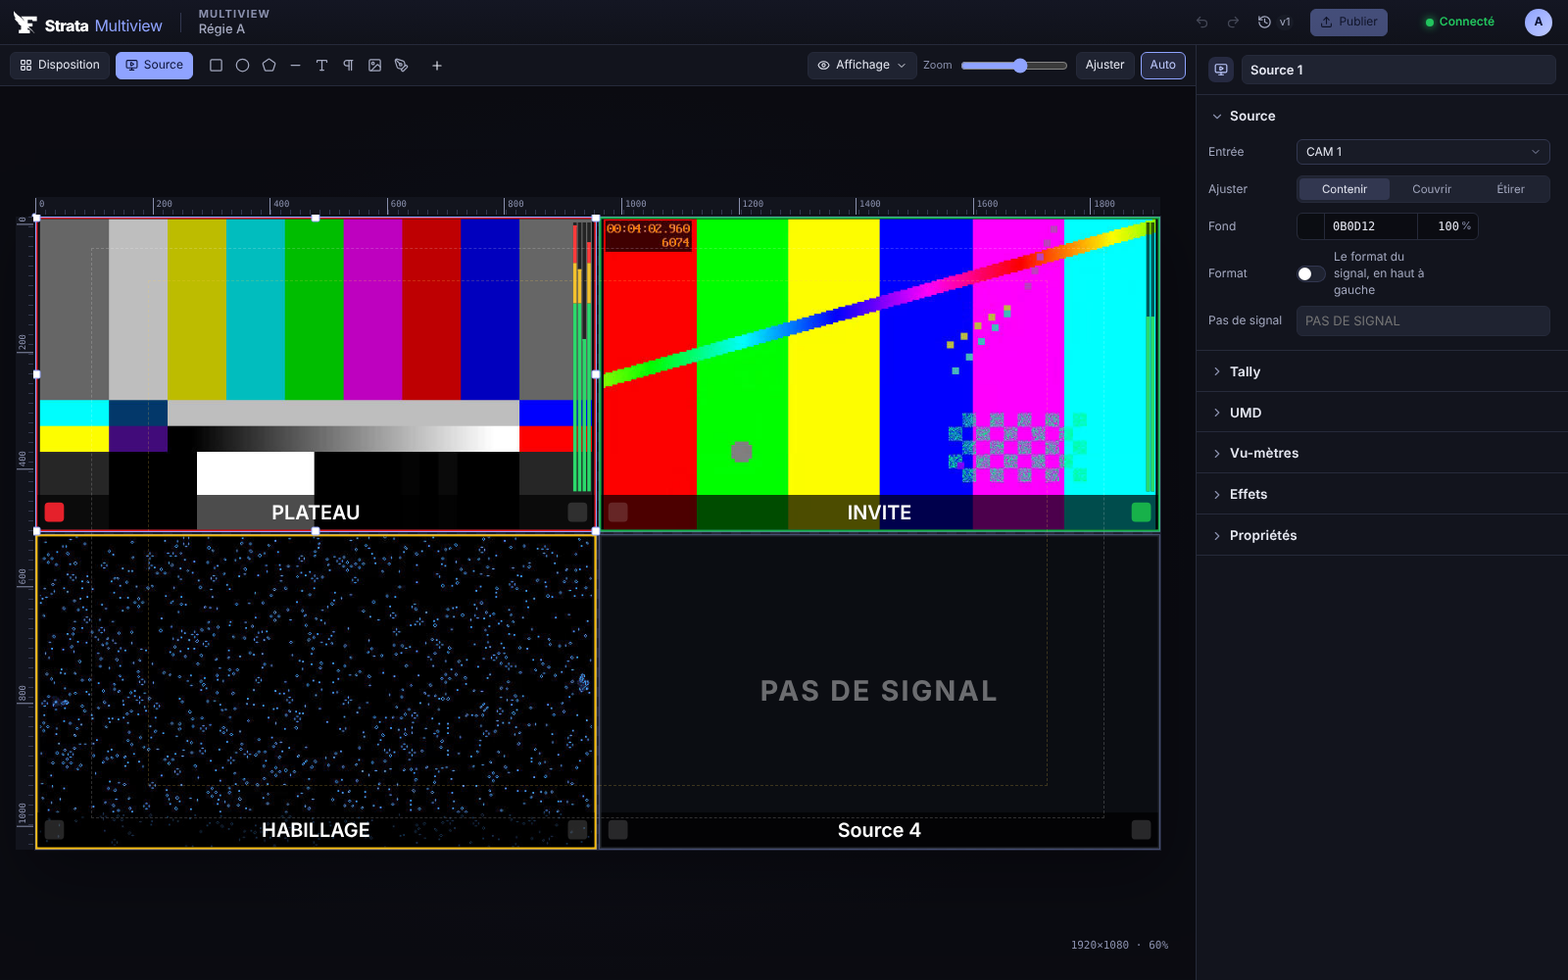
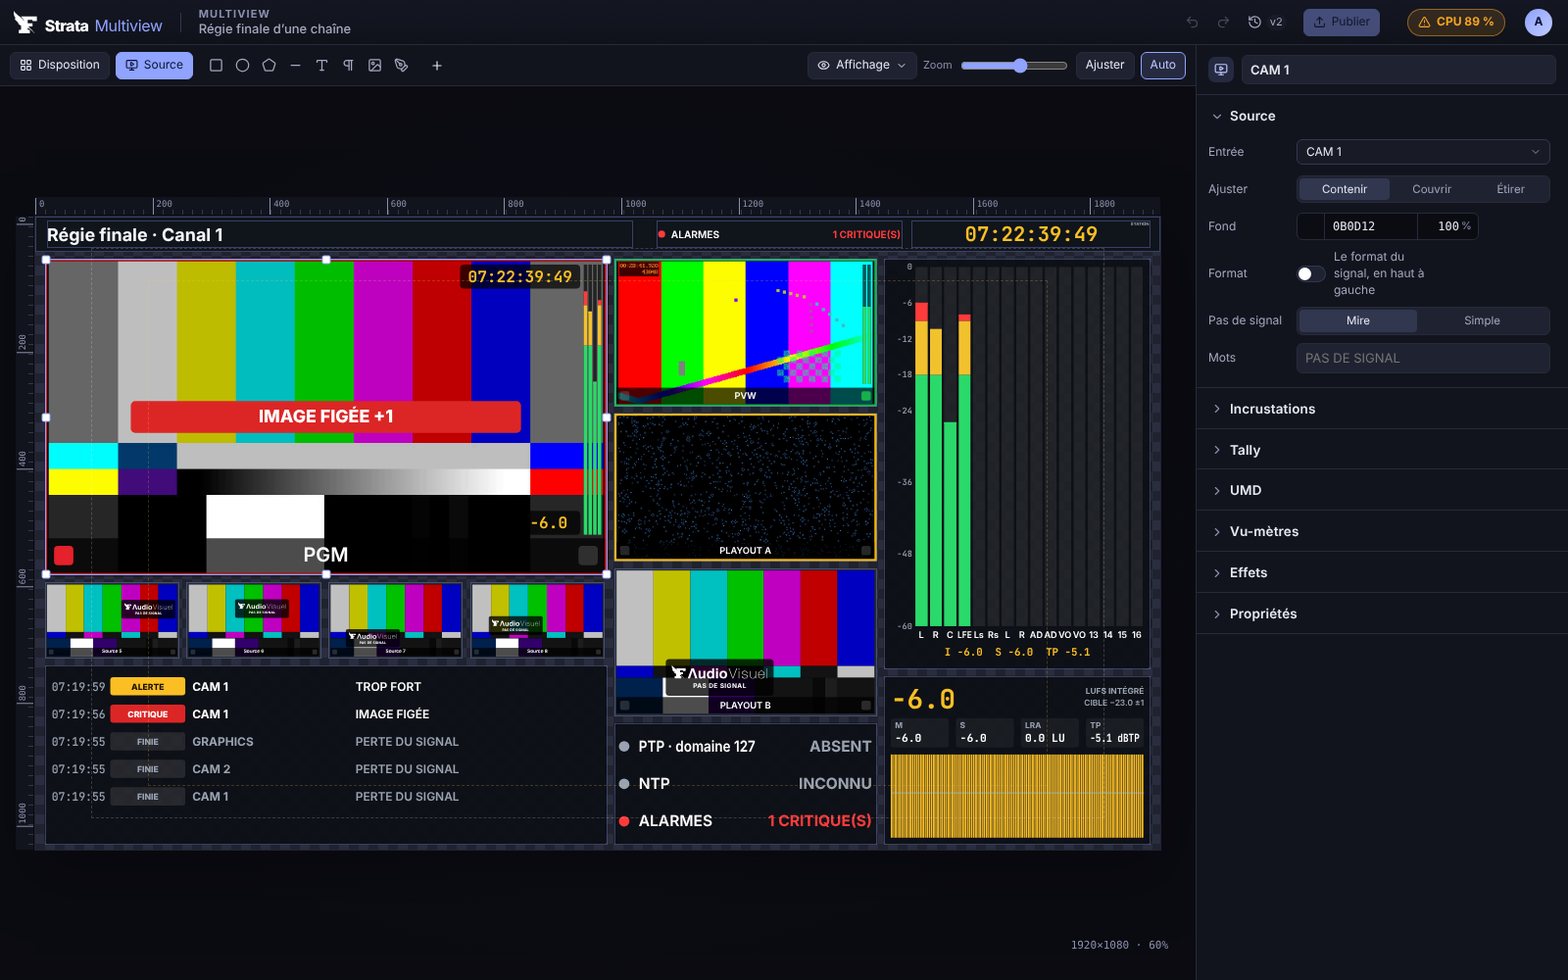
Docs: models, broadcast widgets, loudness, alarms; new screenshots
README: the ten models in New multiview, the broadcast widgets (audio
meters, loudness, timecode, status, alarm log), the source tile's
signal-loss bars and overlays, loudness R128, timecode and the alarm
journal. ARCHITECTURE: the display-list widgets and the signal hub.
Screenshots of the final control model in the editor and on air.

Claude-Session: https://claude.ai/code/session_01YNigYBVkBUfYF1kZKq6KJ5

diff --git a/README.md b/README.md
@@ -1,10 +1,10 @@
 # Strata Multiview
 
-**Multiviewer broadcast logiciel.** Strata Multiview compose des mosaïques de sources vidéo (multiviews) dans le navigateur : les images des entrées en direct avec leur **tally**, leur **UMD** et leurs **vu-mètres**, des horloges, des logos et des textes. Il envoie le résultat vers les sorties du studio : HTML5, NDI, flux SRT / RTMP / HLS, SDI (DeckLink) et SMPTE ST 2110.
+**Multiviewer broadcast logiciel pour la régie de diffusion.** Strata Multiview compose des mosaïques de sources vidéo (multiviews) dans le navigateur : les images des entrées en direct avec leur **tally**, leur **UMD**, leurs **vu-mètres**, leur **loudness EBU R128** et leur **timecode**, les **alarmes** (perte, noir, image figée, silence, niveau), l'état **PTP / NTP**, le journal des défauts, des horloges et des logos. Il envoie le résultat vers les sorties du studio : HTML5, NDI, flux SRT / RTMP / HLS, SDI (DeckLink) et SMPTE ST 2110.
 
 Strata Multiview reprend le design, le Designer et le moteur de rendu de Strata Graphics. Les deux applications sont indépendantes et tournent côte à côte sur la même machine. Un seul exécutable par plateforme, un moteur de rendu en Rust, une interface web.
 
-![Un multiview à l'antenne : tally, UMD et vu-mètres](docs/screenshots/output.png)
+![Le modèle « Régie finale » à l'antenne : tally, UMD, timecode, loudness, alarmes, 16 canaux audio et mire sur les entrées absentes](docs/screenshots/output.png)
 
 ## Sommaire
 
@@ -14,7 +14,7 @@ Strata Multiview reprend le design, le Designer et le moteur de rendu de Strata 
 4. [Designer](#4-designer)
 5. [La tuile Source](#5-la-tuile-source)
 6. [Tally et UMD](#6-tally-et-umd)
-7. [Audio et vu-mètres](#7-audio-et-vu-mètres)
+7. [Audio, loudness et alarmes](#7-audio-loudness-et-alarmes)
 8. [Diffusion](#8-diffusion)
 9. [Système](#9-système)
 10. [API](#10-api)
@@ -28,7 +28,7 @@ Strata Multiview reprend le design, le Designer et le moteur de rendu de Strata 
 ### 1.1 La chaîne
 
 ```
- Entrées en direct ──► image, audio (niveaux par canal)
+ Entrées en direct ──► image, audio (niveaux, loudness R128), timecode, alarmes
  (SRT, UDP, RTMP, HLS, RTSP, NDI, SDI)        │
                                                ▼
  Régie (TSL 3.1 / 5.0, ATEM, GPI, API) ──► tally et UMD de chaque entrée
@@ -37,9 +37,9 @@ Strata Multiview reprend le design, le Designer et le moteur de rendu de Strata 
  Designer ──► multiviews publiés ──► chaîne ──► sorties (HTML5 · NDI · Stream · SDI · ST 2110)
 ```
 
-- Les **entrées en direct** sont décodées en continu ; leur audio est mesuré canal par canal.
+- Les **entrées en direct** sont décodées en continu ; leur audio est mesuré canal par canal et en loudness EBU R128 ; leur image est surveillée (noir, image figée) ; une entrée qui tombe lève une alarme.
 - Le **tally** et les **UMD** viennent des mélangeurs et des contrôleurs de tally, aiguillés vers les entrées.
-- Le **Designer** compose les multiviews : une **disposition** (2 × 2, 3 × 3, 1 + 5…) de **tuiles Source**, et autant d'horloges, de logos et de textes que voulu.
+- Le **Designer** compose les multiviews : un des **dix modèles** de régie de diffusion ou une **disposition** (2 × 2, 3 × 3, 1 + 5…) de **tuiles Source**, puis les widgets de supervision (vu-mètres 16 canaux, loudness, timecode, état, journal des alarmes), des horloges, des logos et des textes.
 - Une **chaîne** montre un multiview publié et l'envoie vers ses destinations.
 
 ### 1.2 Les pages
@@ -62,7 +62,7 @@ Un multiview s'ouvre directement dans le **Designer**, dans son propre onglet.
 | **Operator** | choisir le multiview à l'antenne d'une chaîne ; régler le tally par l'API |
 | **Viewer** | consulter les multiviews et les sorties |
 
-L'interface est en **français ou en anglais**, au choix de chaque utilisateur. Les textes que le multiview écrit lui-même (« PAS DE SIGNAL ») suivent la langue du multiview.
+L'interface est en **français ou en anglais**, au choix de chaque utilisateur. Les textes que le multiview écrit lui-même (« PAS DE SIGNAL », « IMAGE FIGÉE ») suivent la langue du multiview.
 
 ---
 
@@ -96,8 +96,8 @@ Guide complet, dossiers de données, pare-feu, proxy : [`docs/INSTALL.md`](docs/
 
 1. Ouvrez `http://<serveur>:8090`. Sur le serveur lui-même, la page propose de **créer le compte administrateur** ; à distance, utilisez `strata-mv-server user add admin`.
 2. **Diffusion › Entrées vidéo** : déclarez les sources (caméras en SDI, flux SRT d'un encodeur, sources NDI du réseau…).
-3. **Multiviews › Nouveau multiview** : nommez-le, choisissez sa résolution et une **disposition** (2 × 2, 1 + 5, 4 × 4…). Les tuiles sont créées, reçoivent les entrées dans l'ordre, et le multiview s'ouvre dans le **Designer**.
-4. Ajustez les tuiles (entrée, UMD, vu-mètres), ajoutez une horloge, un logo, un titre, puis **Publiez**.
+3. **Multiviews › Nouveau multiview** : nommez-le, choisissez sa résolution puis un **modèle** (régie finale, 16 chaînes, retours antenne…) ou une simple **disposition** (2 × 2, 1 + 5, 4 × 4…). Les tuiles et les widgets sont créés, les tuiles reçoivent les entrées dans l'ordre, et le multiview s'ouvre dans le **Designer**.
+4. Ajustez les tuiles (entrée, UMD, vu-mètres, timecode, loudness), ajoutez des widgets, un logo, un titre, puis **Publiez**.
 5. **Diffusion › Flux vidéo** : choisissez le **multiview à l'antenne** de la chaîne : il passe aussitôt à l'antenne. Ajoutez les destinations (HTML5, NDI, SDI, ST 2110, flux).
 6. **Diffusion › Tally et UMD** : ajoutez la régie (TSL, ATEM ou GPI) et reliez ses afficheurs aux entrées.
 
@@ -109,19 +109,42 @@ La sortie HTML5 de la chaîne principale est sur `http://<serveur>:8090/output/m
 
 ## 4. Designer
 
-![Designer : un multiview 2 × 2, une tuile sélectionnée](docs/screenshots/designer.png)
+![Designer : le modèle « Régie finale », la tuile PGM sélectionnée](docs/screenshots/designer.png)
 
 ### 4.1 L'espace de travail
 
 - **En haut** : le nom du multiview, annuler / rétablir, l'historique des versions et **Publier**.
-- **Au centre** : la **scène** (règles, repères, zones de sécurité, fond) avec la barre d'outils : **Disposition**, **Source** (une tuile), les formes et les textes, **+** (bandeau, horloge, temps, QR code, vidéo, iframe), **Affichage**, zoom. Les tuiles y montrent les entrées en direct, leur tally et leurs vu-mètres. Un clic sélectionne, un glisser déplace ; clic droit : copier, couper, coller, dupliquer, ordre, supprimer.
+- **Au centre** : la **scène** (règles, repères, zones de sécurité, fond) avec la barre d'outils : **Disposition**, **Source** (une tuile), les formes et les textes, **+** (vu-mètres, loudness, timecode, état, journal des alarmes, bandeau, horloge, temps), **Affichage**, zoom. Les tuiles y montrent les entrées en direct, leur tally et leurs vu-mètres. Un clic sélectionne, un glisser déplace ; clic droit : copier, couper, coller, dupliquer, ordre, supprimer.
 - **À droite** : l'inspecteur de l'élément sélectionné ; sans sélection, le multiview lui-même (résolution, ses tuiles, ses réglages).
 
-Un multiview s'édite directement : ni modèles, ni calques, ni timeline, ni animation. Ce qui bouge vient des sources (images, tally, vu-mètres) et des widgets eux-mêmes (horloges, bandeau défilant).
+Un multiview s'édite directement : une seule page, ni calques, ni timeline, ni animation. Ce qui bouge vient des sources (images, tally, vu-mètres, loudness, alarmes) et des widgets eux-mêmes (timecode, horloges, bandeau défilant).
 
-### 4.2 Dispositions
+### 4.2 Modèles
 
-![Nouveau multiview : la disposition](docs/screenshots/new-multiview.png)
+![Nouveau multiview : les modèles](docs/screenshots/new-multiview.png)
+
+**Nouveau multiview** propose dix modèles dessinés pour la **régie de diffusion** (pas de production). Chacun est un point de départ : tout y reste modifiable dans le Designer.
+
+| Modèle | Contenu |
+| --- | --- |
+| **Régie finale d'une chaîne** | PGM (timecode, loudness, alarmes), PVW, playout A et B, quatre retours, 16 canaux audio, loudness, état, journal |
+| **Seize chaînes** | 4 × 4 chaînes avec leur loudness et leurs alarmes, l'état de l'installation et le journal |
+| **Main et backup** | quatre chaînes, leur main et leur backup côte à côte, avec leur audio |
+| **Retours antenne** | le programme face à ses retours (TNT, satellite, IPTV, OTT), loudness et journal |
+| **Audio, 16 canaux** | les 16 canaux et le loudness d'une entrée, quatre autres entrées, avec ou sans image |
+| **IP, PTP et synchro** | neuf sources ST 2110, PTP et NTP, le timecode station et le journal |
+| **Contributions** | six arrivées avec leur timecode et leur loudness, le journal |
+| **Nuit, 25 sources** | 5 × 5 sources où seules les alarmes ressortent, le journal à côté |
+| **Habillage et sous-titres** | le programme avant et après habillage, son loudness, son audio et le journal |
+| **UHD HDR et SDR** | le programme UHD et sa conversion SDR, le loudness, 16 canaux, l'état de l'installation |
+
+Les modèles sont dessinés en 1920 × 1080 et mis à l'échelle de la résolution choisie ; leurs tuiles prennent les entrées dans l'ordre.
+
+![Le modèle « Régie finale » rendu par le moteur Rust](docs/screenshots/model-final.png)
+
+![Le modèle « Seize chaînes » : les entrées absentes montrent la mire](docs/screenshots/model-sixteen.png)
+
+### 4.3 Dispositions
 
 Une **disposition** place les tuiles Source sur une grille, avec un **espace** entre elles et une **marge** autour :
 
@@ -132,17 +155,19 @@ Une **disposition** place les tuiles Source sur une grille, avec un **espace** e
 | **2 + 8** | deux grandes en haut, huit petites en dessous |
 | **1 + 12** | une grande au centre, douze autour |
 
-Elle se choisit à la création d'un multiview, ou s'applique ensuite par le bouton **Disposition** : les tuiles existantes sont replacées dans l'ordre de lecture, les manquantes sont ajoutées avec les entrées qu'aucune tuile ne montre encore. Chaque tuile reste ensuite libre (position, taille, réglages).
+Elle se choisit à la création d'un multiview (« Une disposition seule »), ou s'applique ensuite par le bouton **Disposition** : les tuiles existantes sont replacées dans l'ordre de lecture, les manquantes sont ajoutées avec les entrées qu'aucune tuile ne montre encore. Chaque tuile reste ensuite libre (position, taille, réglages).
 
-### 4.3 Les autres éléments
+### 4.4 Les widgets
 
-Tous les widgets de Strata Graphics utiles à un multiview restent disponibles, rendus à l'identique en HTML5 et par le moteur Rust :
+Tous les widgets sont rendus à l'identique en HTML5 et par le moteur Rust (la géométrie est calculée dans `strata-mv-core`, chaque moteur ne fait que dessiner) :
 
 | Pour | Widgets |
 | --- | --- |
-| **Horloges** | Horloge (heure, date, n'importe quel fuseau, cadran analogique), Temps (chronomètre, compte à rebours) |
-| **Logos** | Image (PNG, JPEG, SVG, GIF, vidéo en boucle) |
-| **Labels** | Texte (styles, ombre, ajustement), bandeau défilant (Ticker), QR code, page web |
+| **Audio** | **Vu-mètres** : jusqu'à 16 canaux d'une entrée, avec ou sans image ; noms des canaux (« L, R, C, LFE… »), échelle en dBFS, valeurs, crêtes, ligne de loudness |
+| **Loudness** | **Loudness** EBU R128 d'une entrée : intégré en grand, momentary, short-term, LRA, true peak ; courbe short-term des deux dernières minutes ; couleurs selon la cible (−23 LUFS ± 1, true peak −1 dBTP) |
+| **Temps** | **Timecode** : celui de la station (heure locale à la cadence de la chaîne) ou d'une entrée (NDI) ; Horloge (heure, date, fuseau, cadran analogique) ; Temps (chronomètre, compte à rebours) |
+| **Supervision** | **État** : PTP (verrouillage, domaine, écart), NTP, alarmes en cours ; **Journal des alarmes** : les défauts des entrées, les plus récents d'abord, avec leur début et leur fin |
+| **Labels et logos** | Texte, bandeau défilant (Ticker), Image (PNG, JPEG, SVG, GIF, vidéo en boucle) |
 | **Habillage** | rectangle, ellipse, polygone, plume, groupes, masques, dégradés |
 
 La **publication** envoie les multiviews vers les sorties ; tant qu'un multiview n'est pas publié, les chaînes gardent la version précédente.
@@ -155,11 +180,15 @@ Une tuile **Source** montre une entrée en direct et tout ce qu'elle porte :
 
 | Élément | Réglages |
 | --- | --- |
-| **Image** | l'entrée ; ajustement *Contenir* (bandes noires), *Couvrir* ou *Étirer* ; couleur de fond ; « PAS DE SIGNAL » (texte modifiable) quand l'image manque |
+| **Image** | l'entrée ; ajustement *Contenir* (bandes noires), *Couvrir* ou *Étirer* ; couleur de fond |
+| **Perte de signal** | *Mire* : barres SMPTE avec le logo **F AudioVisuel** et « PAS DE SIGNAL » qui rebondissent dessus (chaque tuile ailleurs) ; ou *Simple* : fond uni et texte modifiable |
 | **Cadre de tally** | épaisseur ; couleurs *À l'antenne* (rouge), *Préparation* (vert), *Aux* (jaune), *Sans tally* ; le cadre peut ne pas suivre le tally |
 | **UMD** | en bas, en haut ou sans ; sur l'image ou à côté ; hauteur ; texte (vide : celui de la régie, sinon le nom de l'entrée ; `{{clé}}` remplacées) ; police, alignement, couleurs ; **lampes** de tally aux deux bouts (antenne à gauche, préparation à droite) |
 | **Vu-mètres** | à droite, à gauche ou sans ; un par canal reçu (ou au plus *n*) ; largeur, espace, marge ; échelle en dBFS, jaune et rouge à partir de seuils ; maintien des crêtes |
 | **Format** | le format du signal (« 1080i50 ») en haut à gauche |
+| **Timecode** | sans, celui de l'entrée ou celui de la station, en haut à droite |
+| **Loudness** | le loudness short-term de l'entrée en bas à droite, coloré selon la cible |
+| **Alarmes** | cadre rouge clignotant (critique) ou ambre (alerte) et bandeau du défaut (« IMAGE FIGÉE », « PERTE DU SIGNAL »…), avec le nombre d'autres défauts |
 
 Les réglages et la géométrie sont communs aux deux moteurs (`strata-mv-core/src/wid/source.rs`, `web/src/widgets/source.tsx`) : la sortie HTML5 et les sorties du moteur Rust montrent la même image.
 
@@ -211,17 +240,40 @@ La clé d'API (Système › API) agit avec les droits de son utilisateur : un co
 
 ---
 
-## 7. Audio et vu-mètres
+## 7. Audio, loudness et alarmes
+
+### 7.1 Niveaux
 
 L'audio de chaque entrée est mesuré à la réception, canal par canal : **crête** et **puissance moyenne** toutes les 40 ms environ. Les vu-mètres montent aussitôt, redescendent de 24 dB par seconde et gardent leur crête deux secondes.
 
 | Entrée | Audio mesuré |
 | --- | --- |
-| **Flux** (SRT, UDP, RTMP, HLS, RTSP, URL) | la première piste audio, tous ses canaux (filtre `astats` d'ffmpeg) ; une source sans audio est reconnue et décodée sans mesure |
+| **Flux** (SRT, UDP, RTMP, HLS, RTSP, URL) | la première piste audio, tous ses canaux (filtres `ebur128` et `astats` d'ffmpeg) ; une source sans audio est reconnue et décodée sans mesure |
 | **NDI** | l'audio de la source, tous ses canaux |
 | **SDI** (DeckLink) | l'audio embarqué : 16, 8 ou 2 canaux selon la carte, 48 kHz |
 
 Les niveaux arrivent au moteur et aux navigateurs (une douzaine de fois par seconde) avec le tally. Une entrée sans audio depuis trois secondes n'a plus de vu-mètres.
+
+### 7.2 Loudness et timecode
+
+Le **loudness EBU R128** de chaque entrée est mesuré en continu : momentary (400 ms), short-term (3 s), intégré, LRA et true peak. Les flux passent par le filtre `ebur128` d'ffmpeg, NDI et SDI par la même mesure en Rust. La cible est **−23 LUFS ± 1** et **−1 dBTP**. L'historique short-term (une valeur par seconde, deux minutes) nourrit la courbe du widget Loudness.
+
+Le **timecode** d'une entrée est celui de NDI ; le **timecode station** est l'heure locale du serveur à la cadence de la chaîne.
+
+### 7.3 Alarmes et journal
+
+Chaque entrée est surveillée en permanence :
+
+| Alarme | Gravité | Quand |
+| --- | --- | --- |
+| **Perte du signal** | critique | plus d'image reçue |
+| **Noir** | critique | image noire depuis 3 s |
+| **Image figée** | critique | image identique depuis 4 s |
+| **Silence** | alerte | audio sous −60 dBFS depuis 5 s |
+| **Trop fort** | alerte | short-term au-dessus de la cible de plus de 3 LU depuis 10 s |
+| **Crête** | alerte | true peak au-dessus de −1 dBTP (tenue 3 s) |
+
+Les alarmes s'affichent sur les tuiles (cadre et bandeau), dans le widget **État** et dans le **journal** (200 lignes, début et fin de chaque défaut). L'état **PTP** (ptp4l) et **NTP** de la machine accompagne les signaux.
 
 ---
 
@@ -285,7 +337,7 @@ La page **Système › API** documente toute l'API (OpenAPI 3.1, aussi sur `/api
 | `GET` `PUT` `DELETE` | `/api/tally` · `/api/tally/config` · `/api/tally/inputs/{entrée}` · `/api/tally/gpi/{source}/{contact}/{on\|off}` | tally et UMD |
 | `GET` | `/api/inputs` · `/api/inputs/{id}/live.mjpeg` | entrées et leurs images |
 | `GET` | `/api/outputs/status` · `/api/system/metrics` · `/api/health` | supervision |
-| `WS` | `/ws` · `/ws?channel={id}` | évènements temps réel (multiviews, chaînes, signaux des entrées) |
+| `WS` | `/ws` · `/ws?channel={id}` | évènements temps réel (multiviews, chaînes ; signaux des entrées : niveaux, loudness, timecode, alarmes ; état PTP / NTP et journal) |
 
 ```bash
 curl -X PUT http://localhost:8090/api/channels/main/multiview -H "Authorization: Bearer smv_…" \

diff --git a/docs/ARCHITECTURE.md b/docs/ARCHITECTURE.md
@@ -35,8 +35,9 @@
 
 ### `strata-mv-core` : le contrat
 - **Modèle** (`model.rs`) : un multiview est un `Project` dont l'unique `Template` est la page, faite de `Layer` (group, rect, ellipse, text, image et les widgets), avec ses `props` statiques et ses `tracks` de keyframes. Le modèle est sérialisé en JSON camelCase ; il a un miroir TypeScript dans `web/src/engine/types.ts`.
-- **Tuile Source** (`wid/source.rs`) : réglages (entrée, ajustement, cadre de tally, UMD, vu-mètres, format) et **géométrie** (`layout`) : où vont l'image, la barre d'UMD, ses lampes, son texte et chaque barre de vu-mètre. Les deux moteurs la suivent ; miroir TypeScript : `web/src/widgets/source.tsx`.
-- **Signaux** (`signal.rs`) : ce qu'une entrée porte en plus de son image, tel que la tuile le dessine : `Tally` (antenne, préparation, aux, texte d'UMD), `Level` (crête, puissance, maintien en dBFS par canal), `SourceView`.
+- **Tuile Source** (`wid/source.rs`) : réglages (entrée, ajustement, cadre de tally, UMD, vu-mètres, format, timecode, loudness, alarmes) et **géométrie** (`layout`, `overlay`) : où vont l'image, la barre d'UMD, ses lampes, son texte, chaque barre de vu-mètre et les incrustations. La perte de signal : les barres SMPTE (`BARS`, EG 1-1990) et la carte F AudioVisuel (`no_signal_card`), dont la position est une fonction de l'heure du serveur et de la place de la tuile. Miroir TypeScript : `web/src/widgets/source.tsx`.
+- **Widgets broadcast** (`wid/broadcast.rs`) : vu-mètres, loudness, timecode, état, journal des alarmes. Chacun produit une liste d'éléments (`Item::Rect`, `Item::Text`) que les deux moteurs dessinent tels quels ; miroir TypeScript : `web/src/widgets/broadcast.tsx`.
+- **Signaux** (`signal.rs`) : ce qu'une entrée porte en plus de son image : `Tally` (antenne, préparation, aux, texte d'UMD), `Level` (crête, puissance, maintien en dBFS par canal), `Loudness` (EBU R128 : momentary, short-term, intégré, LRA, true peak) et son historique, le timecode, les `Alarm` en cours (`AlarmKind`, `Severity`), réunis dans `SourceView` ; pour la machine, `SystemView` (PTP, NTP, journal des alarmes).
 - **Playout** (`playout.rs`) : un multiview est un modèle à l'antenne sur la couche de sa zone. Le Designer ne crée ni images clés ni animation ; le moteur (`anim.rs`) résout simplement les propriétés de chaque calque.
 - **Widgets** (`wid/`) : chaque widget est une fonction pure de ses réglages, de l'heure du serveur et du temps à l'antenne : les rendus Rust et HTML5 sont identiques.
 
@@ -59,8 +60,8 @@ Rasteriseur CPU (tiny-skia) : headless, déterministe. Le texte est converti en 
 Le serveur repose sur axum et tokio.
 
 - **Chaînes** : chaque chaîne a sa tâche d'horloge, son `ChannelState` et son thread de rendu. Charger un multiview (`PUT /api/channels/{id}/project`) met sa page publiée à l'antenne (`show_multiview`) ; une publication met à l'antenne des chaînes qui attendaient.
-- **Entrées** (`inputs.rs`) : un fil par entrée. Les flux passent par ffmpeg : l'image en RGBA sur sa sortie standard, l'audio de la première piste mesuré par `astats` dont les valeurs sont lues dans son journal (`MeterLog`) ; une source sans audio est relancée sans mesure. NDI et SDI mesurent leur audio eux-mêmes.
-- **Signaux** (`signals.rs`) : tally et niveaux par entrée ; les vu-mètres montent aussitôt, descendent de 24 dB/s, maintiennent la crête 2 s. Le moteur les lit par `Inputs::source` ; les navigateurs les reçoivent en évènements `signals` (toutes les 80 ms au plus, quand ils changent).
+- **Entrées** (`inputs.rs`) : un fil par entrée. Les flux passent par ffmpeg : l'image en RGBA sur sa sortie standard, l'audio de la première piste mesuré par `ebur128` puis `astats`, dont les valeurs sont lues dans son journal (`MeterLog`) ; une source sans audio est relancée sans mesure. NDI et SDI mesurent leur audio eux-mêmes (le loudness par la crate `ebur128`) ; NDI donne aussi son timecode.
+- **Signaux** (`signals.rs`) : tally, niveaux, loudness et timecode par entrée ; les vu-mètres montent aussitôt, descendent de 24 dB/s, maintiennent la crête 2 s. Chaque image reçue laisse une empreinte de luminance 8 × 8 qui détecte le noir et l'image figée ; `evaluate` lève et clôt les alarmes (perte, noir, figée, silence, trop fort, crête) et tient le journal (200 lignes). PTP et NTP viennent de la supervision de la synchro. Le moteur les lit par `Inputs::source` et `Inputs::system` ; les navigateurs les reçoivent en évènements `signals` (`{sources, system}`, toutes les 80 ms au plus, quand ils changent).
 - **Tally** (`tally/`) : une tâche par source (TSL en UDP, TCP en écoute ou en client ; ATEM en UDP 9910 ; GPI par l'API), l'état de leurs afficheurs, l'aiguillage vers les entrées et les consignes de l'API. Réglages dans `tally.json`, appliqués à chaud ; le tally vit en dehors du cycle du moteur et survit à ses redémarrages.
 - **Multiviews** : la bibliothèque `data/projects/<id>.json` est écrite de façon atomique ; un nouveau multiview naît avec sa page, déjà publiée. Le multiview chargé sur chaque chaîne est mémorisé dans `config.json`.
 - **Utilisateurs** : `users.json` stocke des hachages Argon2. Chaque route vérifie le rôle de l'appelant et son périmètre de multiviews et de chaînes.
@@ -68,8 +69,9 @@ Le serveur repose sur axum et tokio.
 
 ## Feuille de route
 
-- [ ] Plusieurs pistes audio par flux (aujourd'hui la première, tous ses canaux) ; mesure LUFS.
+- [ ] Plusieurs pistes audio par flux (aujourd'hui la première, tous ses canaux).
 - [ ] Entrées ST 2110 (image et audio 2110-30).
 - [ ] Sources de tally supplémentaires : Ross RossTalk, protocoles propriétaires de routeurs (Probel, Quartz) pour les UMD dynamiques.
 - [ ] Tuile pilotée par un routeur (l'entrée d'une tuile suit une destination de grille).
-- [ ] Alarmes : silence, image figée, noir, perte de signal, sur la tuile et dans Performances.
+- [ ] Timecode des flux (SEI, LTC dans l'audio) et du SDI (VITC, RP 188).
+- [ ] Alarmes envoyées vers l'extérieur (SNMP, webhook, GPO).
